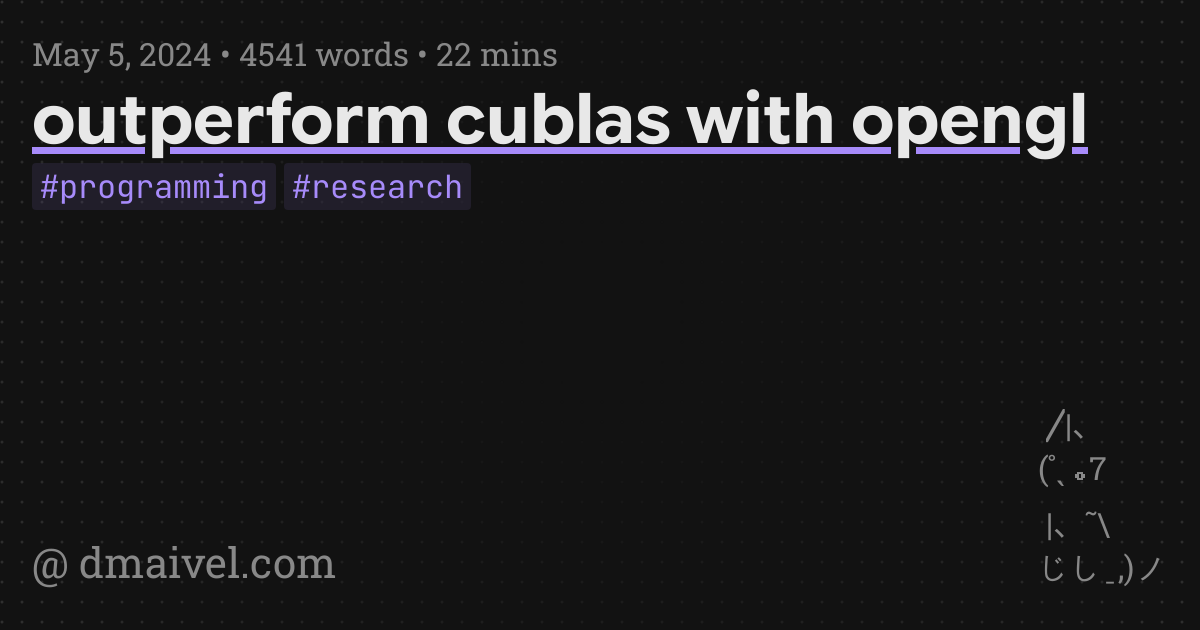
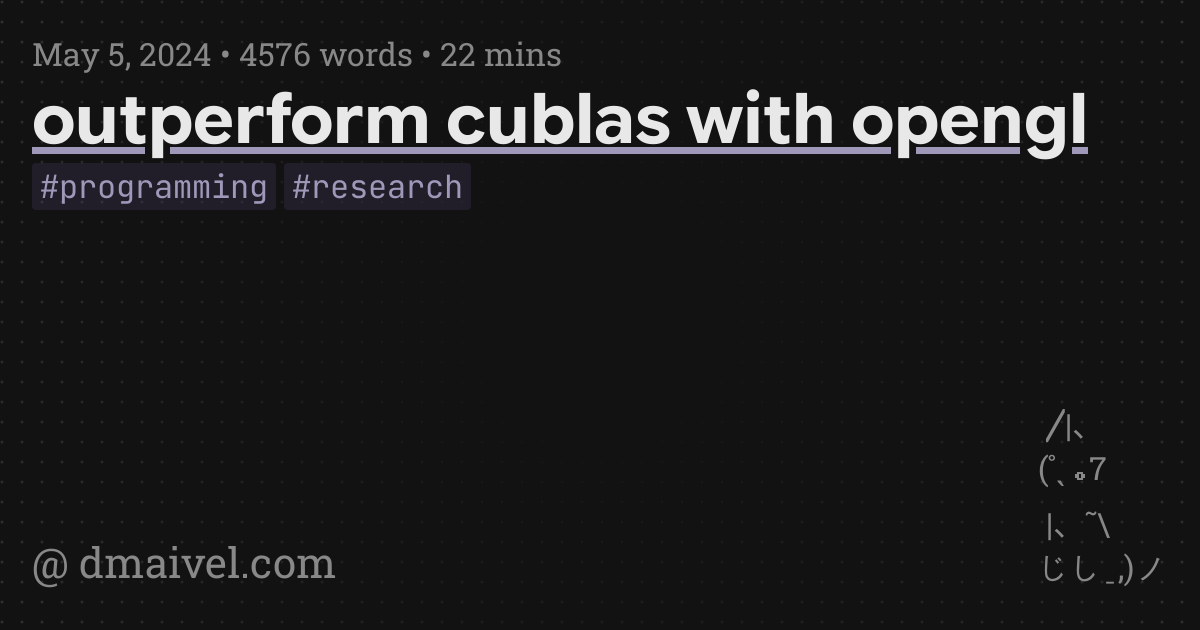
new accent color, give headings more spacing

diff --git a/layouts/partials/nav.html b/layouts/partials/nav.html
@@ -40,7 +40,7 @@
         color: #ddd;
     }
     .home:hover {
-        color: #a78bfa;
+        color: #a098b8;
     }
 
     .home-logo {
@@ -53,20 +53,20 @@
         vertical-align: middle;
     }
     .home:hover .home-logo {
-        background-color: #a78bfa;
+        background-color: #a098b8;
     }
 </style>
 
 <div class="nav_stuff">
-    <h2 style="margin-bottom: 0; margin-top: 0; text-decoration: underline; text-decoration-color: #a78bfa; font-size: 24px; background-color: #121214;">
+    <h2 style="margin-bottom: 0; margin-top: 0; text-decoration: underline; text-decoration-color: #a098b8; font-size: 24px; background-color: #121214;">
         <a class="home" href="/" style="text-decoration: none;"><span class="home-logo"></span></a>
     </h2>
     <div style="justify-content: center; display: flex; gap: 16px">
-        <h2 style="margin-bottom: 0; margin-top: 0; text-decoration: underline; text-decoration-color: #a78bfa; font-size: 24px;">
-            <a class="home" href="https://github.com/dmaivel" style="text-decoration-color: #a78bfa; font-family: 'Roboto Slab'; font-size: 20px;">github</a>
+        <h2 style="margin-bottom: 0; margin-top: 0; text-decoration: underline; text-decoration-color: #a098b8; font-size: 24px;">
+            <a class="home" href="https://github.com/dmaivel" style="text-decoration-color: #a098b8; font-family: 'Roboto Slab'; font-size: 20px;">github</a>
         </h2>
-        <h2 style="margin-bottom: 0; margin-top: 0; text-decoration: underline; text-decoration-color: #a78bfa; font-size: 24px;">
-            <a class="home" href="/about" style="text-decoration-color: #a78bfa; font-family: 'Roboto Slab'; font-size: 20px;">about</a>
+        <h2 style="margin-bottom: 0; margin-top: 0; text-decoration: underline; text-decoration-color: #a098b8; font-size: 24px;">
+            <a class="home" href="/about" style="text-decoration-color: #a098b8; font-family: 'Roboto Slab'; font-size: 20px;">about</a>
         </h2>
     </div>
 </div>

diff --git a/layouts/_default/baseof.html b/layouts/_default/baseof.html
@@ -294,8 +294,8 @@
   h1, h2, h3, h4, h5, h6, .post-date, .post-tag {
     /* font-family: RobotoSlab, sans-serif */
     font-family: Google Sans Flex;
-    text-decoration: underline #a78bfa solid;
-    -webkit-text-decoration: underline #a78bfa solid;
+    text-decoration: underline #a098b8 solid;
+    -webkit-text-decoration: underline #a098b8 solid;
   }
 
   a.footnote-ref {
@@ -335,31 +335,41 @@
 
   h2 {
     font-size: 32px;
+    margin-top: 42px;
+    margin-bottom: 0px;
   }
 
   h3 {
     font-size: 24px;
+    margin-top: 42px;
+    margin-bottom: 0px;
   }
 
   h4 {
     font-size: 20px;
+    margin-top: 42px;
+    margin-bottom: 0px;
   }
 
   h5 {
     font-size: 18px;
+    margin-top: 42px;
+    margin-bottom: 0px;
   }
 
   h6 {
     font-size: 16px;
+    margin-top: 42px;
+    margin-bottom: 0px;
   }
 
   a {
-    text-decoration-color: #a78bfa;
+    text-decoration-color: #a098b8;
     color: #d4d4d4;
   }
 
   a:hover:not(sup a) {
-    color: #a78bfa;
+    color: #a098b8;
   }
 
   code:not(pre code) {
@@ -440,7 +450,7 @@
   .note {
     /* display: inline-block; */
     position: relative;
-    color: #a78bfa;
+    color: #a098b8;
     /*color: ;*/
     font-size: inherit;
   }
@@ -707,8 +717,8 @@
   .tag {
       font-family: JetBrains Mono;
       font-size: 0.9rem;
-      color: #a78bfa;
-      background: #a78bfa1a;
+      color: #a098b8;
+      background: #a098b81a;
       padding: 2px 8px;
       border-radius: 4px;
   }

diff --git a/og_image_template.html b/og_image_template.html
@@ -233,7 +233,7 @@ body {
 h1 {
     font-size: 150px;
     font-family: "Roboto Slab", sans-serif;
-    text-decoration: underline solid #a78bfa;
+    text-decoration: underline solid #a098b8;
     margin-bottom: 0px;
 }
 
@@ -258,7 +258,7 @@ h3 {
 
 p {
     font-family: "Google Sans Flex";
-    text-decoration: underline solid #a78bfa;
+    text-decoration: underline solid #a098b8;
     font-size: 70px;
     font-weight: bold;
     margin-top: 0;
@@ -268,7 +268,7 @@ p {
 hr { 
     border: none; 
     height: 0; 
-    border-top: 12px dotted #a78bfa; 
+    border-top: 12px dotted #a098b8; 
 }
 
 pre {
@@ -294,7 +294,7 @@ pre {
 .tag {
     font-family: JetBrains Mono;
     font-size: 2rem;
-    color: #a78bfa;
+    color: #a098b8;
     background: rgba(167, 139, 250, 0.1);
     padding: 2px 8px;
     border-radius: 4px;

diff --git a/layouts/_default/posts/single.html b/layouts/_default/posts/single.html
@@ -15,7 +15,7 @@
   <div style="color: #888;">
     {{ .Date.Format "Jan 2, 2006" }} • {{ .WordCount }} words • {{ .ReadingTime }} mins
   </div>
-  <h1 style="margin-bottom: 0px; margin-top: 0px; text-decoration: underline solid #a78bfa; -webkit-text-decoration: underline solid #a78bfa;">{{ .Title }}</h1>
+  <h1 style="margin-bottom: 0px; margin-top: 0px; text-decoration: underline solid #a098b8; -webkit-text-decoration: underline solid #a098b8;">{{ .Title }}</h1>
   <div class="post-tags">
     {{ range .Params.tags }}
       <span class="tag">#{{ . }}</span>
